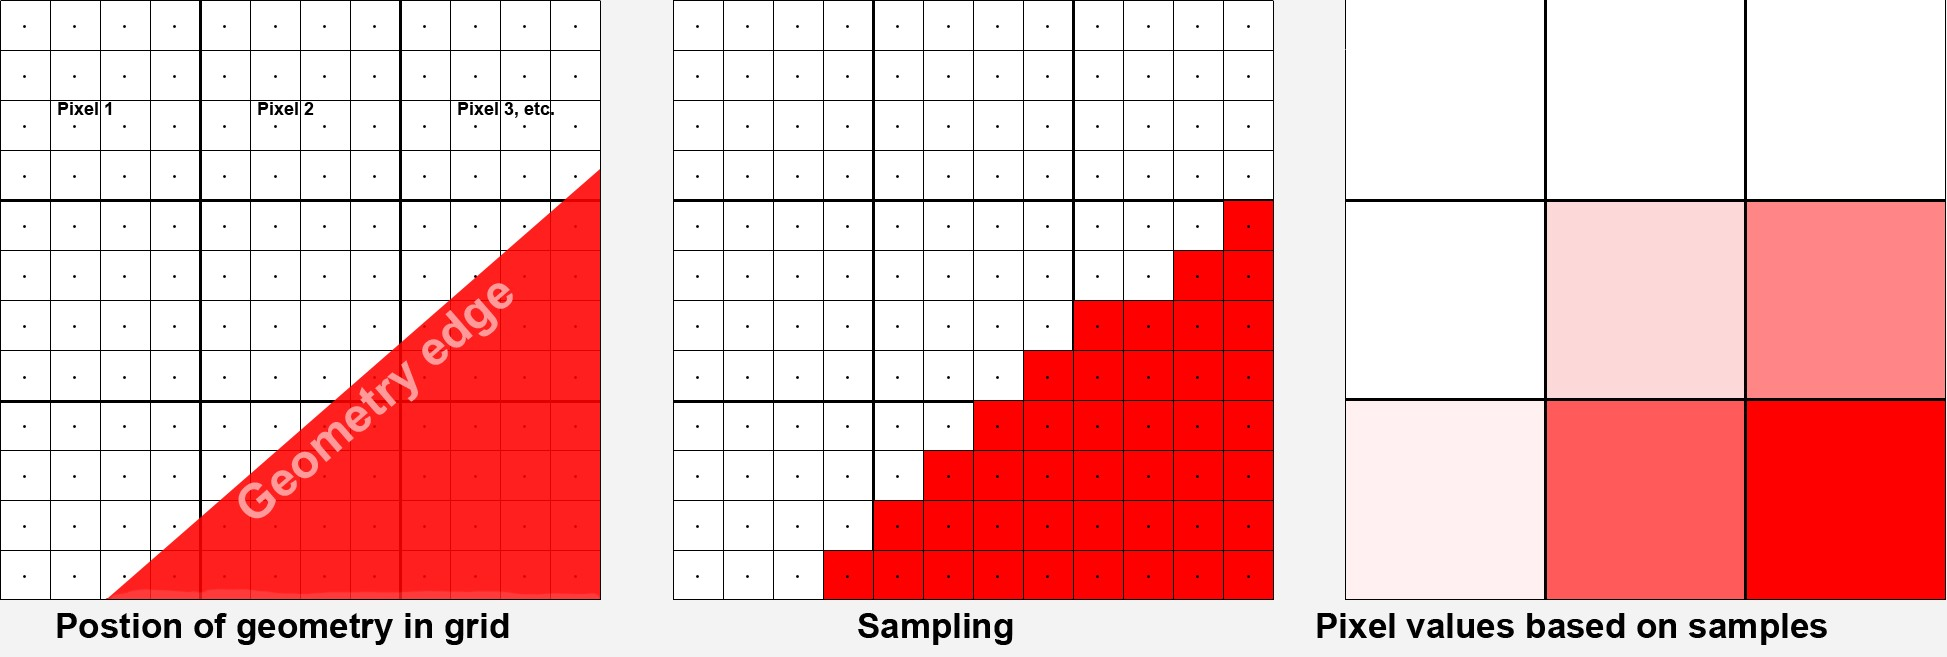
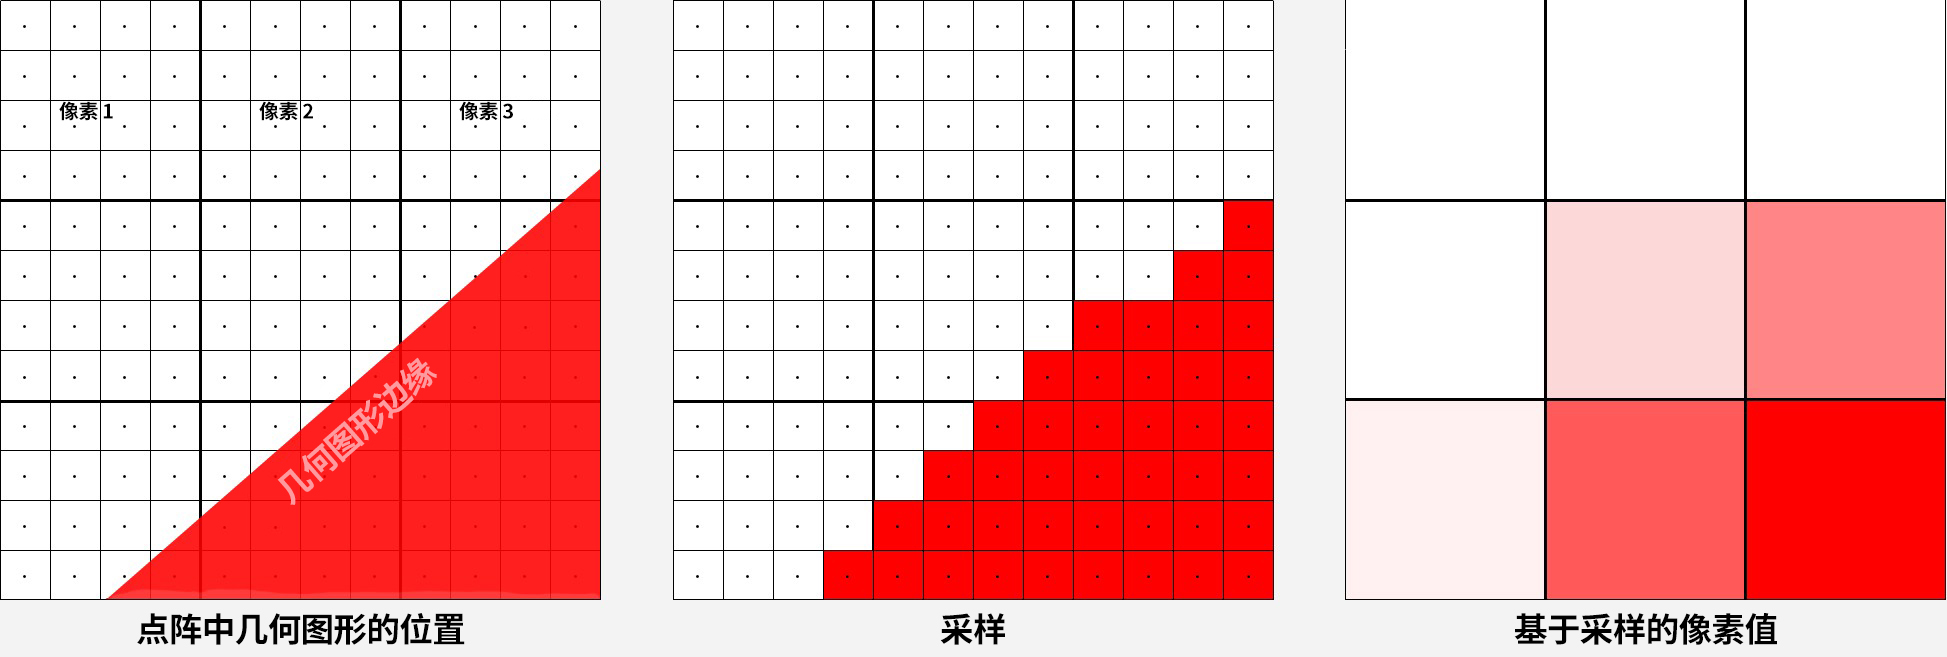
Antialiasing

diff --git a/help/CN/html/DRENDERSETTINGS-RDATA_GROUP_ANTIALIASING.html b/help/CN/html/DRENDERSETTINGS-RDATA_GROUP_ANTIALIASING.html
@@ -1,0 +1,108 @@
+<!DOCTYPE html PUBLIC "-//W3C//DTD HTML 4.01 Transitional//EN">
+<!-- saved from url=(0014)about:internet -->
+<html>
+
+	<head>
+		<meta http-equiv="content-type" content="text/html;charset=utf-8">
+		<meta name="generator" content="WICKIE">
+		<title>编辑渲染设置：抗锯齿</title>
+		<meta name="FORMATTER" content="wickie">
+		<link href="../../files/wickie.css" type="text/css" rel="stylesheet" media="all">
+		<script type="text/javascript" src="../../files/versionAppender.js"> </script>
+		<script type="text/javascript" src="../../files/linkRewriter.js"> </script> 
+		<!--PAGE_ID "32053"-->
+		<!--VATER_ID "32048"-->
+		<!--REIHENFOLGE "5"-->
+		<!--TITLE "编辑渲染设置：抗锯齿"-->
+		<!--APPS "11 16 17 10 14 15"-->
+		<!--TYP "GROUP"-->
+	</head>
+
+<body bgcolor="#e0e0e0" link="black" vlink="#2a2a2a">
+
+
+<!--NO_SEARCH_START-->
+<span class="link_back"><a href="43666.html" target="_self">参考</a></span> <span class="link_back"><a href="43668.html" target="_self">CINEMA 4D</a></span> <span class="link_back"><a href="1001.html" target="_self">CINEMA 4D Prime</a></span> <span class="link_back"><a href="5697.html" target="_self">渲染菜单</a></span> <span class="link_back"><a href="DRENDERSETTINGS.html" target="_self">编辑渲染设置</a></span>
+
+<div class="in-lite-page in-prime-page in-visualize-page in-broadcast-page in-studio-page in-bodypaint3d-page ">  <div class="page_only_body">
+<div class="page_only_apps">             Function available in CINEMA 4D Prime, Visualize, Broadcast, Studio & BodyPaint 3D  </div>
+<span class="HL_atom"><a href="DRENDERSETTINGS.html">渲染设置</a> </span><p></p><a href="DRENDERSETTINGS-OBASELIST.html" target=""><span class="c4d_group_navi">基本</span></a> <a href="DRENDERSETTINGS-RDATA_GROUP_OUTPUT.html" target=""><span class="c4d_group_navi">输出</span></a> <a href="DRENDERSETTINGS-RDATA_GROUP_SAVE.html" target=""><span class="c4d_group_navi">保存</span></a> <a href="DRENDERSETTINGS-RDATA_GROUP_MULTIPASS.html" target=""><span class="c4d_group_navi">多通道</span></a> <a href="DRENDERSETTINGS-RDATA_GROUP_ANTIALIASING.html" target=""><span class="c4d_group_navi_self">抗锯齿</span></a> <a href="DRENDERSETTINGS-RDATA_GROUP_OVERRIDEMAT.html" target=""><span class="c4d_group_navi">材质覆写</span></a> <a href="DRENDERSETTINGS-RDATA_GROUP_OPTIONS.html" target=""><span class="c4d_group_navi">选项</span></a> <a href="DRENDERSETTINGS-RDATA_GROUP_STEREO.html" target=""><span class="c4d_group_navi">立体</span></a> <a href="DRENDERSETTINGS-RDATA_GROUP_NET.html" target=""><span class="c4d_group_navi">Team Render</span></a><!--NO_SEARCH_END--><p class="c4d_group"><span>抗锯齿</span></p><p></p>
+<p><!--INDEX "1","抗锯齿",""--></p>
+<p><!--INDEX "1","aa",""--></p>
+<p>抗锯齿会消除图片中的锯齿状边缘，它的原理是将每个像素分解为亚像素，比起每个像素只计算一种颜色，抗锯齿会计算多个色值然后计算均值来得到最终的像素颜色。</p>
+<p><div class="image_full" style="max-width:537px"><img  src="../pics/003840.jpg"  ><span class="caption">使用抗锯齿页面的设置，你可以消除锯齿状边缘。上图的右上角显示了没有抗锯齿的锯齿边缘，右下角则显示了应用抗锯齿之后的平滑效果。</span></div></p>
+<p><p><div class="hint"><span class="HL_hint">提示：<br></span>CINEMA 4D 中的一些特性有它们自己的抗锯齿设置（如反射通道中的漫反射，各向异性等），在通过编辑渲染设置菜单添加抗锯齿设置之前请记住这一点。</div></p>
+<p><a id="hl_1" name="hl_1"></a><!--INDEX "3","抗锯齿的原理","hl_1"--><p><span class="HL_1">抗锯齿的原理</span></p>
+<p><div class="image_full" style="max-width:1947px"><img  src="../pics/031329.jpg"  ><span class="caption">像素（显示为大方块）被细分为亚像素，每个亚像素会计算一个色值，相近的色值会统计到像素的色值中。</span></div></p>
+<p>对渲染而言，首先，渲染摄像机角度会被分解成一个像素阵列（通过编辑渲染设置菜单中的<span class="command">宽度</span>和<span class="command">高度</span>参数定义）。每个像素上都会发生很多情况，例如一个对象的边缘会穿过它，一个纹理会将像素分裂成两种不同的颜色等等，但是每个像素都只能有一个色值，考虑到要保持视觉一致性、物体和边缘的自然过渡，计算图像是一项艰巨的任务。</p>
+<p>解决这些问题的一个方案是将每个像素分解为亚像素，并且为每个亚像素单独计算样本（及色值）。这个过程也被称为“超采样”（或“采样”）。</p>
+<p>第二步是根据设定的像素周围半径，来统计这些亚像素的色值（通过后面描述的 filter 来实现）。</p>
+<p><a id="RDATA_ANTIALIASING" name="RDATA_ANTIALIASING"></a> <!--INDEX "8","抗锯齿","RDATA_ANTIALIASING"--><span class="c4d_id">抗锯齿</span></p>
+<p><div class="image_full" style="max-width:685px"><img  src="../pics/031330.jpg"  ><span class="caption">从左至右：无、几何体（轻微模糊的纹理是抗锯齿滤镜的效果）、最佳。</span></div></p>
+<p><a id="RDATA_ANTIALIASING_NONE" name="RDATA_ANTIALIASING_NONE"></a><!--INDEX "10","无","RDATA_ANTIALIASING_NONE"--><span class="c4d_id_cycle">无</span></p>
+<p>输出的图像不会进行抗锯齿处理（如果有标签进行了不同的设置，那么会忽略这些设置）。对象和颜色边缘会出现阶梯状锯齿。</p>
+<p>这个模式很适合用来快速测试渲染，这时图像质量并不重要。</p>
+<p><a id="RDATA_ANTIALIASING_GEOMETRY" name="RDATA_ANTIALIASING_GEOMETRY"></a><!--INDEX "10","几何体","RDATA_ANTIALIASING_GEOMETRY"--><span class="c4d_id_cycle">几何体</span></p>
+<p>这是默认的设置，它会平滑所有对象边缘（自动细分为 16×16 像素）。</p>
+<p><a id="RDATA_ANTIALIASING_BEST" name="RDATA_ANTIALIASING_BEST"></a><!--INDEX "10","最佳","RDATA_ANTIALIASING_BEST"--><span class="c4d_id_cycle">最佳</span></p>
+<p>这个选项会启用（除了对象平滑外）CINEMA 4D 的适应性抗锯齿（只在关键区域计算额外的亚像素，也就是那些与邻近像素颜色反差巨大的像素），它会影响色彩边缘（如投影、透明材质后面的对象等）。这是通过这个模式下可用的几个参数依次控制来实现的。</p>
+<p><a id="RDATA_AAMINLEVEL" name="RDATA_AAMINLEVEL"></a> <!--INDEX "8","最小级别","RDATA_AAMINLEVEL"--><span class="c4d_id">最小级别</span><br><a id="RDATA_AAMAXLEVEL" name="RDATA_AAMAXLEVEL"></a> <!--INDEX "8","最大级别","RDATA_AAMAXLEVEL"--><span class="c4d_id">最大级别</span><br><a id="RDATA_AATHRESHOLD" name="RDATA_AATHRESHOLD"></a> <!--INDEX "8","阈值","RDATA_AATHRESHOLD"--><span class="c4d_id">阈值</span> <span class="range">[0..100%]</span></p>
+<p>这项设置用来控制 CINEMA 4D 的适应性抗锯齿，在像素的颜色与邻近像素颜色差别过大时进行亚像素运算。如果可能的话，对非关键区域（大面积颜色统一的区域）不会进行亚像素计算。</p>
+<p>这三个参数的默认组合可以应用在大多数情况中。</p>
+<p><span class="command">最小级别</span> 设定亚像素的最小值，这些亚像素总是会被渲染。默认值 <span class="command_value">1.1</span> 在大多数情况下足够。但是，如果在一些很细节的区域出现瑕疵，如投影消失，则应该使用较高的值。</p>
+<p><span class="command">最大级别</span> 是应用到关键区域（主要是高对比区域，如颜色边缘或透明材质后面的对象边缘）的亚像素颜色散布。如在渲染玻璃时要保证良好的细节，可以增大这个数值。</p>
+<p>在下图中，使用了两种设置的渲染结果之间的差别初看并不明显，如果你想要最好的渲染效果（当然，这会相应地导致更长的渲染时间），则需要对设置进行优化：</p>
+<p><div class="image_full" style="max-width:1200px"><img  src="../pics/031331.jpg"  ><span class="caption">更高的抗锯齿设置通常只会对在细节的地方得到更好的效果。在这个示例中，右图比左图多花费了10倍的渲染时间。</span></div></p>
+<p><span class="command">阈值</span>定义了对于给定的像素，在颜色分离为何种程度时对其应用最大级别的抗锯齿。较小的数值会允许没有颜色分离，较大的数值则会在有较高的对比时才开始进行平滑。</p>
+<p><div class="image_full" style="max-width:1278px"><img  src="../pics/031332.jpg"  ><span class="caption">在<span class="command">最小级别</span>和<span class="command">最大级别</span>分别为 1×1 和 16×16 时，各种<span class="command">阈值</span>的数值。对各自的情况来说，高对比需要高<span class="command">阈值</span>来进行平滑。</span></div></p>
+<p>上图演示了一个位于玻璃块后面的灰度风扇。为什么要放在玻璃对象后面？根据上面的描述，没有玻璃的话，只有对象的边缘会进行平滑（只有当对象位于透明对象后面或在反射中时，适应性抗锯齿才会生效）。如你所见，低<span class="command">阈值</span>会对所有区域进行平滑，因为在应用平滑前， CINEMA 4D 允许最小的颜色分离。阈值越高，平滑前需要的对比也越高。</p>
+<p>在一个色彩平均的场景中，阈值（颜色）设置为 <span class="command_value">10%</span> 时，大约会对 40% 的像素产生影响；当阈值设置为 <span class="command_value">5%</span> 时，则会对大约 90% 的像素产生影响；当阈值设置为 <span class="command_value">0%</span> 时，会对渲染图像中的每一个像素进行抗锯齿，即使是那些不需要抗锯齿的区域。</p>
+<p>这三个参数对渲染速度有巨大的影响！设置过高会很容易成十倍地增加渲染时间，而渲染质量没有显著的区别。在大多数情况下，默认的数值通常就能渲染出非常不错的结果，也不用花费过多的时间。</p>
+<p><p><div class="hint"><span class="HL_hint">提示：<br></span>注意与上面搭配使用的<a href="TCOMPOSITING.html" target="">渲染标签</a>。</p>
+<p>这个标签可以在对象级别定义抗锯齿设置。在<span class="command">编辑渲染设置</span>菜单中，设置<span class="command">抗锯齿</span>为<span class="command">最佳</span>、<span class="command_value">最小/最大级别</span>数值都是<span class="command_value">1×1</span>。这是对整个场景的最低抗锯齿设置（即“无”），但是你可以使用渲染标签来单独定义每个对象的抗锯齿数量。这让你对一个突出的前景对象应用高级别的抗锯齿，而让背景中较远的对象的抗锯齿较少。</div></p>
+<p><a id="hl_2" name="hl_2"></a><!--INDEX "3","关于渲染速度：","hl_2"--><p><span class="HL_1">关于渲染速度：</span></p>
+<p>渲染速度可以通过修改合成便签和阈值（颜色）的<span class="command">最小/最大级别</span>参数来控制。将阈值（颜色）设置为很低的值会显著拖慢你的电脑。</p>
+<p><a id="RDATA_AAOBJECTPROPERTIES" name="RDATA_AAOBJECTPROPERTIES"></a> <!--INDEX "8","使用对象属性","RDATA_AAOBJECTPROPERTIES"--><span class="c4d_id">使用对象属性</span></p>
+<p>如果启用了而这个选项，你可以使用合成标签来单独对每个对象指定最小/最大级别和阈值。</p>
+<p><RELEASE_115  Improved antialiasing for alpha channels and Multi-Passes.></p>
+<p><a id="RDATA_AACONSIDERMULTIPASSES" name="RDATA_AACONSIDERMULTIPASSES"></a> <!--INDEX "8","考虑多通道","RDATA_AACONSIDERMULTIPASSES"--><span class="c4d_id">考虑多通道</span></p>
+<p><div class="image_full" style="max-width:746px"><img  src="../pics/024526.jpg"  ><span class="caption">位于一个玻璃立方体后面的对象的 alpha 通道（看起来像<span class="command">折射</span>通道）；图中右半部分启用了考虑多通道选项。</span></div></p>
+<p>在某些实例中，多通道和 alpha 通道的抗锯齿质量会变得很糟。这会发生在这些情况中：如在一个厚度很薄的结构位于折射透明表面后面，并在黑色的背景下进行渲染。在这种实例中，应该启用这个选项。在许多案例中，降低<a href="DRENDERSETTINGS-RDATA_GROUP_ANTIALIASING.html#RDATA_AATHRESHOLD" target="_self"><span class="text_id">阈值</span></a>会很有用。</p>
+<p></RELEASE_115></p>
+<p><RELEASE_130 Re-organization of antialiasing filter, incl. new options.></p>
+<p><a id="RDATA_AAFILTER" name="RDATA_AAFILTER"></a> <!--INDEX "8","过滤","RDATA_AAFILTER"--><span class="c4d_id">过滤</span></p>
+<p>抗锯齿过滤器的工作原理简介如下：根据抗锯齿设置，通过使用各种选项，对每个像素会计算许多亚像素，然后对该像素合成这些颜色（一个像素只能有一种颜色）。这个过滤器对<span class="command_value">几何体</span>(对象边缘平滑)和<span class="command_value">最佳</span>（色彩边缘平滑）这两种抗锯齿类型都是有效的。</p>
+<p>一般来说，过滤器可以控制锐利的边缘如何被渲染。</p>
+<p><a id="FILTER" name="FILTER"></a></p>
+<p><div class="image_full" style="max-width:608px"><img  src="../pics/031333.jpg"  ><span class="caption"></span></div></p>
+<p>上图是一条穿过图像的对角线边缘的9个像素。注意看中间的像素，使用了16个亚像素来计算该像素。其中15个是亮灰色，1个是红色。这些像素形成了一个曲线（这个案例中是 Mitchell）。把这个曲线想象成一个像素周围的平面，那么这个曲线定义了每个亚像素的影响度。因为滤镜尺寸（<span class="command">滤镜宽度</span>和<span class="command">滤镜高度</span>，即纳入考虑的亚像素范围）可以扩展到4像素，曲线可以延伸得更多。这意味着大部分的邻近像素会产生相同的亚像素，因此会得到相似的颜色。当然，这时边缘看起来就不再锐利了。</p>
+<p><a id="NEGATIVE" name="NEGATIVE"></a></p>
+<p><div class="image_full" style="max-width:1130px"><img  src="../pics/031334.jpg"  ><span class="caption"></span></div></p>
+<p>观察上面的曲线，你会发现一些曲线（Mitchell、立方以及尤其是 Sinc）会降到 0 以下。这意味着在相应的边缘处会渲染反色，即使这些颜色在场景中并不存在。这会让边缘看起来更加锐利，但是在某些环境下这会产生一些问题（参见<span class="command">剪辑负成分</span>选项）。</p>
+<p>在大部分情况下，过滤选项对渲染速度没什么影响。</p>
+<p>建议在动画中使用软过滤，过于锐利的边缘会导致闪烁。</p>
+<p><a id="RDATA_AACUSTOMFILTERSIZE" name="RDATA_AACUSTOMFILTERSIZE"></a> <!--INDEX "8","自定义尺寸","RDATA_AACUSTOMFILTERSIZE"--><span class="c4d_id">自定义尺寸</span><br><a id="RDATA_AAFILTERSIZEX" name="RDATA_AAFILTERSIZEX"></a> <!--INDEX "8","滤镜宽度","RDATA_AAFILTERSIZEX"--><span class="c4d_id">滤镜宽度</span> <span class="range">[0.5..4]</span><br><a id="RDATA_AAFILTERSIZEY" name="RDATA_AAFILTERSIZEY"></a> <!--INDEX "8","滤镜高度","RDATA_AAFILTERSIZEY"--><span class="c4d_id">滤镜高度</span> <span class="range">[0.5..4]</span></p>
+<p>滤镜宽度/高度定义了在计算像素颜色时，多少亚像素（从像素中心向外进行计算）会被纳入考虑（另见<a href="DRENDERSETTINGS-RDATA_GROUP_ANTIALIASING.html#filter" target="">这里</a>）。</p>
+<p>当启用了<span class="command">自定义尺寸</span>选项，<span class="command">滤镜宽度</span>和<span class="command">滤镜高度</span>会使用理想的数值并显示出来，这些数值与像素相关，也就是说，将这两个参数设置为 <span class="command_value">0.5</span> 表示距离像素中心点上下左右 0.5 像素范围内的亚像素（即该像素表面的所有亚像素）会纳入计算。更高的数值会相应地扩展到周围的像素，这会让渲染的颜色边缘不那么锐利。</p>
+<p><a id="RDATA_AACLIPNEGATIVE" name="RDATA_AACLIPNEGATIVE"></a> <!--INDEX "8","剪辑负成分","RDATA_AACLIPNEGATIVE"--><span class="c4d_id">剪辑负成分</span></p>
+<p><div class="image_full" style="max-width:579px"><img  src="../pics/031335.jpg"  ><span class="caption">一个过滤器函数的负区域会被剪掉。</span></div> </p>
+<p>如你在<a href="DRENDERSETTINGS-RDATA_GROUP_ANTIALIASING.html#negative" target="">这里</a>看到的，一些过滤器（立方、Mitchell、Sinc）函数曲线会经过负数区域，如果启用了<span class="command">剪辑负成分</span>选项，那么负区域会被去掉。这有什么好处？当使用线性工作流程、高颜色浓度和32位渲染时，你可能在合成时碰到一些问题（合并带有 alpha 通道的图像）。观察上图中右侧插入的图像：渲染的立方体被指定了发光的材质，并使用了 <span class="command_value">Sinc</span> 抗锯齿过滤。左边禁用了<span class="command">剪辑负成分</span>选项，右边是开启后的结果。</p>
+<p></RELEASE_130></p>
+<p><a id="RDATA_AAMIPGLOBAL" name="RDATA_AAMIPGLOBAL"></a> <!--INDEX "8","MIP 缩放","RDATA_AAMIPGLOBAL"--><span class="c4d_id">MIP 缩放</span> <span class="range">[0..1000%]</span></p>
+<p>全局地缩放 MIP/SAT 贴图。局部材质设置（也可以对 MIP 缩放进行设置）也会纳入考虑。全局设置的数值范围从 0% 到 500%。100% 是正常的缩放比例；0% 意味着没有相关近似的 MIP/SAT 贴图；200% 则表示 MIP/SAT 贴图缩放为两倍。</p>
+<p>当使用直接面向摄像机的高细节纹理时，应该增加这个数值，通过抗锯齿会让连续线条的显示结果更好，没有断线。</p>
+<p><RELEASE_115  Switch between Raytracer and Scanliner.></p>
+<p><a id="RDATA_SMALLFRAGMENTS" name="RDATA_SMALLFRAGMENTS"></a> <!--INDEX "8","微片段","RDATA_SMALLFRAGMENTS"--><span class="c4d_id">微片段</span></p>
+<p><div class="image_full" style="max-width:800px"><img  src="../pics/024513.jpg"  ><span class="caption">光影追踪渲染这些类型的场景比扫描线要快得多。例如，标记的区域中每个像素都包含大量的多边形。</span></div></p>
+<p>因为渲染实例的引入，让渲染大量复杂对象成为可能。假设有一个包含了数千个多边形的完整房屋位于场景的地平线处，它离摄像机很远以至于在渲染时只涉及到一个像素。<span class="command">微片段</span>功能就是设计用来更加高效地渲染类似这种区域的（同样应用于有高级别细分曲面散布的区域）。</p>
+<p>CINEMA 4D 有两个内置的渲染进程：“扫描线”和“光影追踪”，它会自动的应用而不需要用户自行设置。在上面的场景中，“光影追踪”对这种类型的渲染比“扫描线”要快得多。</p>
+<p>你可能会认为光影追踪应该用来渲染每一个场景。不幸的是，这种方法也有一些缺点，它的抗锯齿效果较差，并且在渲染像上图那种高对比的自然场景时速度较慢。这就是<nobr><span class="text_id_cycle">混合</span></nobr>选项的作用，它结合了两种方法的优点。简单地说，如果一个图像区域的每个像素都有超过50个多边形是可见的，那么它会用光影追踪进行渲染，而扫描线会处理剩下的区域。默认的<nobr><span class="text_id_cycle">混合</span></nobr>选项对大部分渲染来说是正确的选择。<span class="command_value">仅扫描线</span>选项是用在 R11.5 之前版本中的渲染方式。</p>
+<p><span class="command_value">仅光影追踪</span>应该仅用在上面所表述的场景中。这些场景会比使用<span class="command_value">混合</span>渲染得更快（但是会略微降低抗锯齿质量）。</p>
+<p></RELEASE_115></p>
+<p>
+
+</p>
+  </div>  </div>
+</body>
+
+</html>

diff --git a/help/CN/html/DRENDERSETTINGS-RDATA_GROUP_SAVE.html b/help/CN/html/DRENDERSETTINGS-RDATA_GROUP_SAVE.html
@@ -158,7 +158,7 @@
 <p><p><div class="hint"><span class="HL_hint">注意！<br></span>CINEMA 4D R11.5 之前的版本使用不同于 alpha 通道输出的方式来处理透明表面（通过 alpha 蒙版或<span class="command">透明度</span>通道）。</p>
 <p>示例：一个带有 alpha 蒙版的材质可以用来在平面上创建一个孔，这个平面位于一个巨大的作为背景的球体里面。渲染结果如下面的左图所示。假设你现在想要输出场景为一个 alpha 通道，其中只包含带孔的平面。要实现这一点，给背景（也就是球体）添加一个<span class="command">合成</span>标签。在先前版本的 CINEMA 4D 中，你要做的是禁用<a href="TCOMPOSITING-ID_TAGPROPERTIES.html#COMPOSITINGTAG_SEENBYCAMERA" target="_self"><span class="text_id">摄像机可见</span></a>选项。在 R11.5 及以上版本中，你还需要禁用<a href="TCOMPOSITING-ID_TAGPROPERTIES.html#COMPOSITINGTAG_SEENBYTRANSPARENCY" target="_self"><span class="text_id">透明度可见</span></a>选项来生成 alpha 通道图片，如下面的右图所示：</p>
 <p><div class="image_full" style="max-width:960px"><img  src="../pics/025933.jpg"  ><span class="caption">要生成如右图所示的 alpha 通道，上面提到的两个选项都必须在<span class="command">合成</span>标签中被禁用。</span></div></p>
-<p>这么做的原因在于渲染器的优化，现在渲染器会使用光线跟踪来计算平面透明表面（包括 alpha 蒙版）。光线跟踪必须通过<span class="command">合成</span>标签明确地指定，位于透明对象后方的物体不可见。</div></p>
+<p>这么做的原因在于渲染器的优化，现在渲染器会使用光影追踪来计算平面透明表面（包括 alpha 蒙版）。光影追踪必须通过<span class="command">合成</span>标签明确地指定，位于透明对象后方的物体不可见。</div></p>
 <p><a id="RDATA_SEPARATEALPHA" name="RDATA_SEPARATEALPHA"></a> <!--AM_JUMP "RDATA_SEPARATEALPHA","RDATA_GROUP_SAVEIMAGE","RDATA_GROUP_SAVE"--><!--INDEX "8","分离 Alpha","RDATA_SEPARATEALPHA"--><span class="c4d_id">分离 Alpha</span></p>
 <p>Alpha 通道通常包含在支持 alpha 通道的图像格式中，这也就意味着它们是作为图像文件的一部分来保存的。但是，如果你想要将 alpha 通道保存为一个单独的文件，可以启用这个选项。这时除了彩色图片（如 <span class="command">room.tif</span>），你还会得到一个包含 alpha 通道的文件（如 <span class="command">A_room.tif</span>）。</p>
 <p><RELEASE_120 Separate alpha channel files are saved in the same image format as the rendered image.></p>
